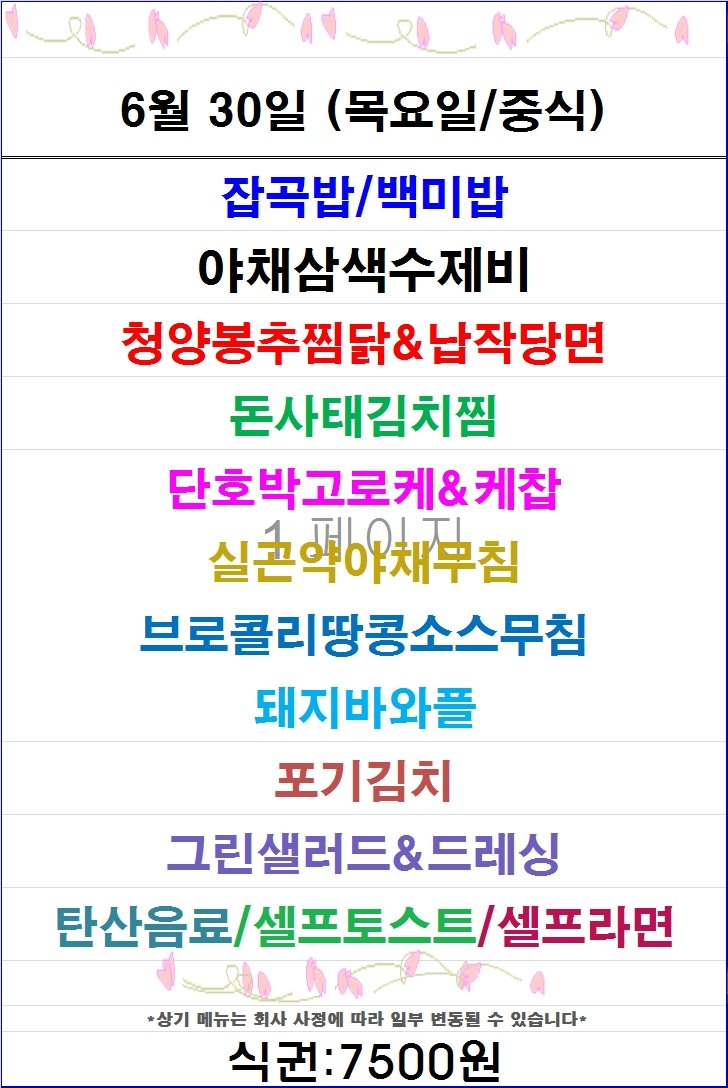
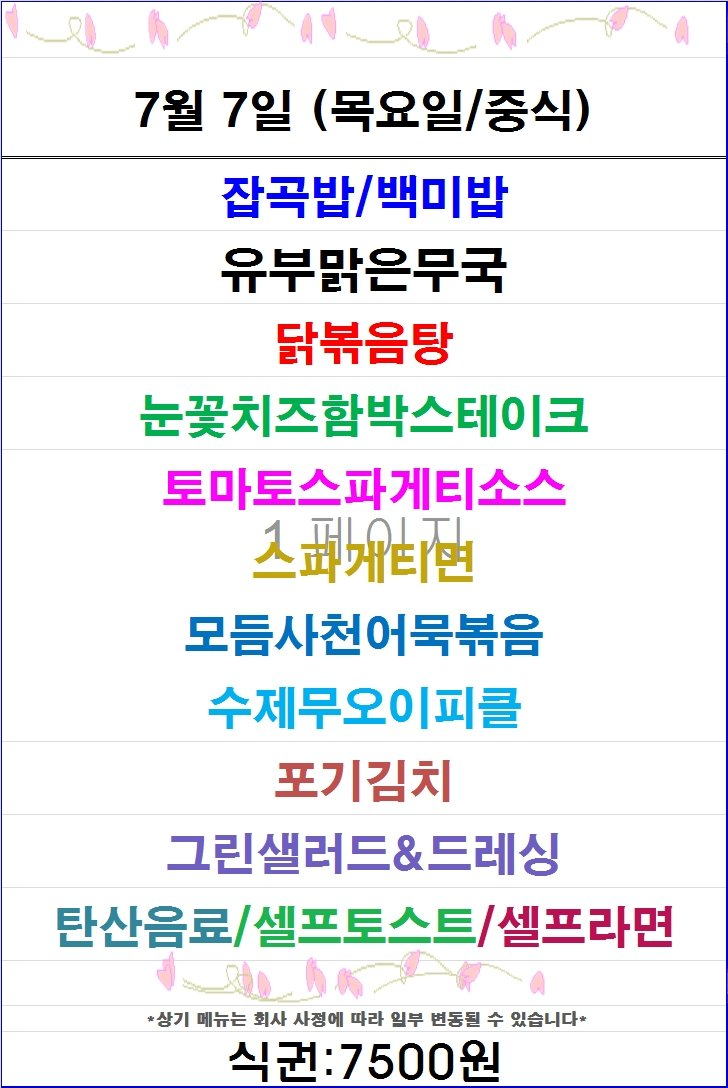
update 0707

Changed region(s): [[0.1511, 0.2188, 0.8462, 0.4688], [0.1813, 0.5, 0.8159, 0.6875], [0.1511, 0.0625, 0.8462, 0.125]]

diff --git a/getFoodStory.py b/getFoodStory.py
@@ -5,7 +5,7 @@ import urllib.request
 import platform
 from selenium.webdriver.common.by import By
 options = webdriver.ChromeOptions()
-#options.add_argument('headless')
+options.add_argument('headless')
 options.add_argument('lang=ko_KR')
 options.add_argument('--no-sandbox')
 chromedriver_path =""

diff --git a/main.py b/main.py
@@ -60,5 +60,5 @@ df['rating'] = rating
 df.to_excel("./menu.xlsx")
 
 ### DB insert
-insertLunch(df)
+ insertLunch(df)
 insertFood(price)
